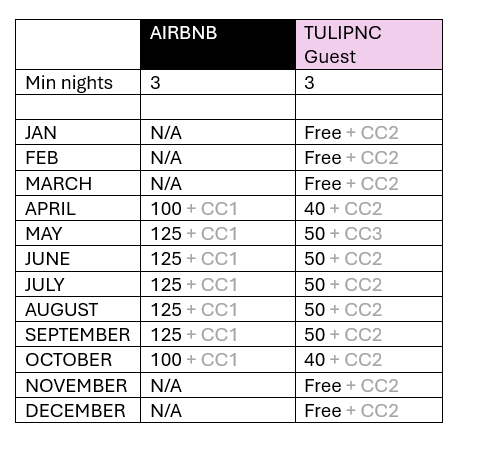
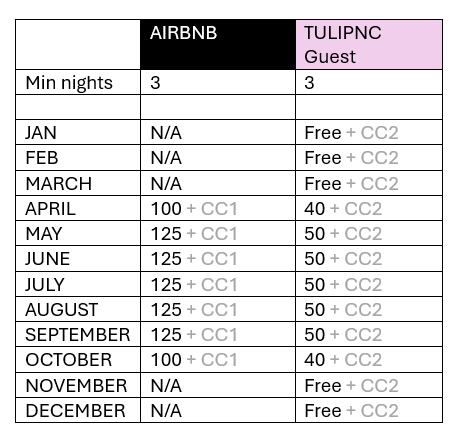
Add files via upload

Changed region(s): [[0.0297, 0.0292, 0.9492, 0.964]]

diff --git a/prices.html b/prices.html
@@ -3,7 +3,7 @@
 <head>
   <meta charset="UTF-8">
   <meta name="viewport" content="width=device-width, initial-scale=1.0">
-  <title>Prices 2026 - TulipNC</title>
+  <title>Prices 2027 - TulipNC</title>
   <link rel="stylesheet" href="style.css">
   
   <style>
@@ -158,15 +158,15 @@
   </div>
   
   <div class="price-table-container">
-    <img src="prices2027.jpg" alt="Price List 2027" style="width: 100%; max-width: 800px; margin: 0 auto; display: block; box-shadow: 0 2px 10px rgba(0,0,0,0.1);">
+    <img src="prices2027.png" alt="Price List 2027" style="width: 100%; max-width: 800px; margin: 0 auto; display: block; box-shadow: 0 2px 10px rgba(0,0,0,0.1);">
   </div>
   
   <div class="cleaning-costs">
     <h2>Cleaning Costs (CC)</h2>
     <p><em>One-time payment regardless of duration of stay:</em></p>
     <ul>
-      <li><strong>CC1:</strong> 70 euros</li>
-      <li><strong>CC2:</strong> 90 euros</li>
+      <li><strong>CC1:</strong> 60 euros</li>
+      <li><strong>CC2:</strong> 80 euros</li>
     </ul>
   </div>
   
